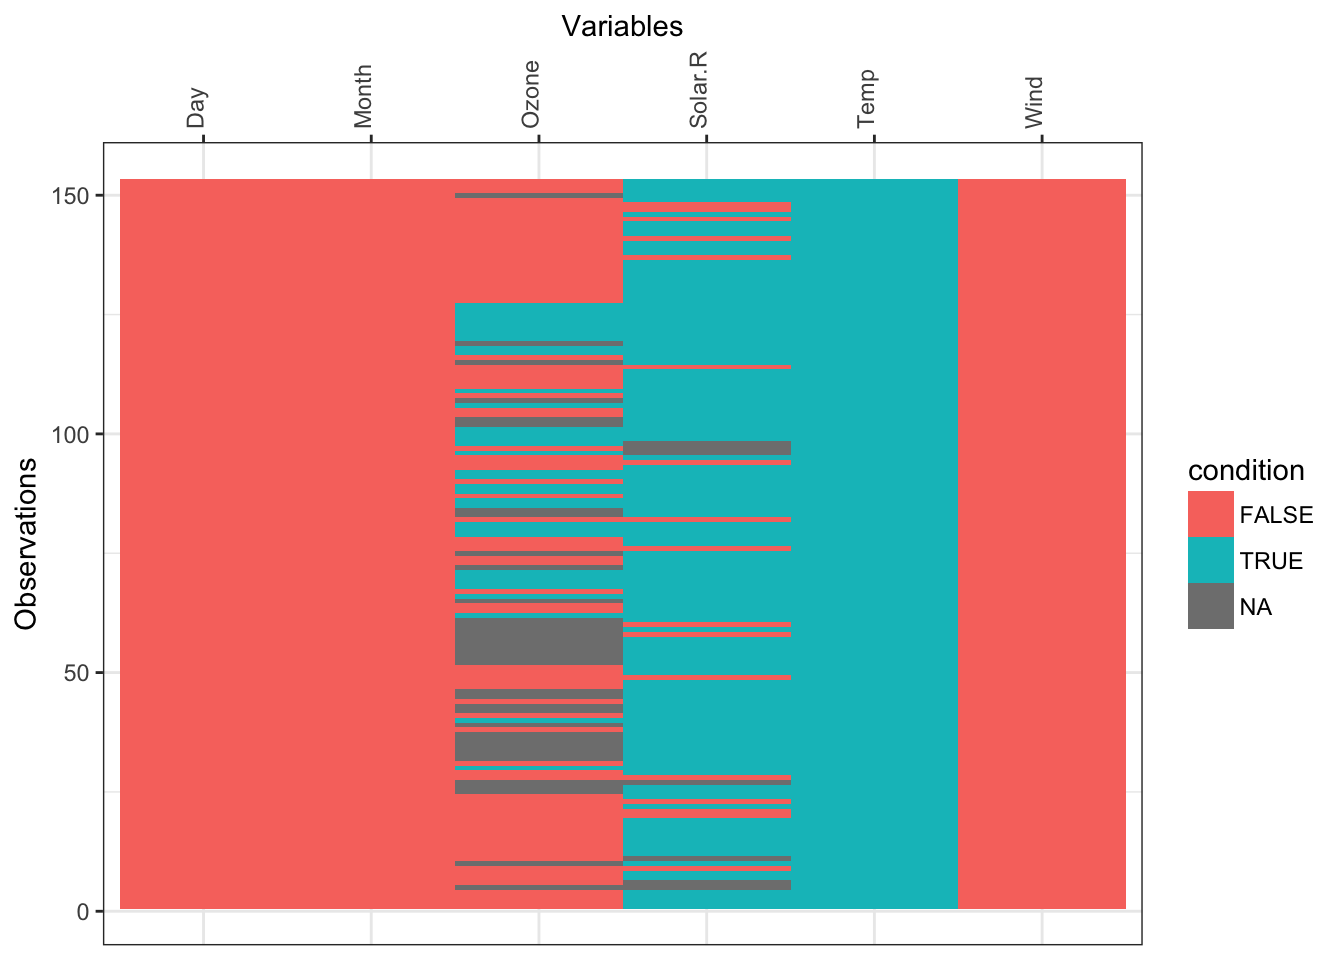
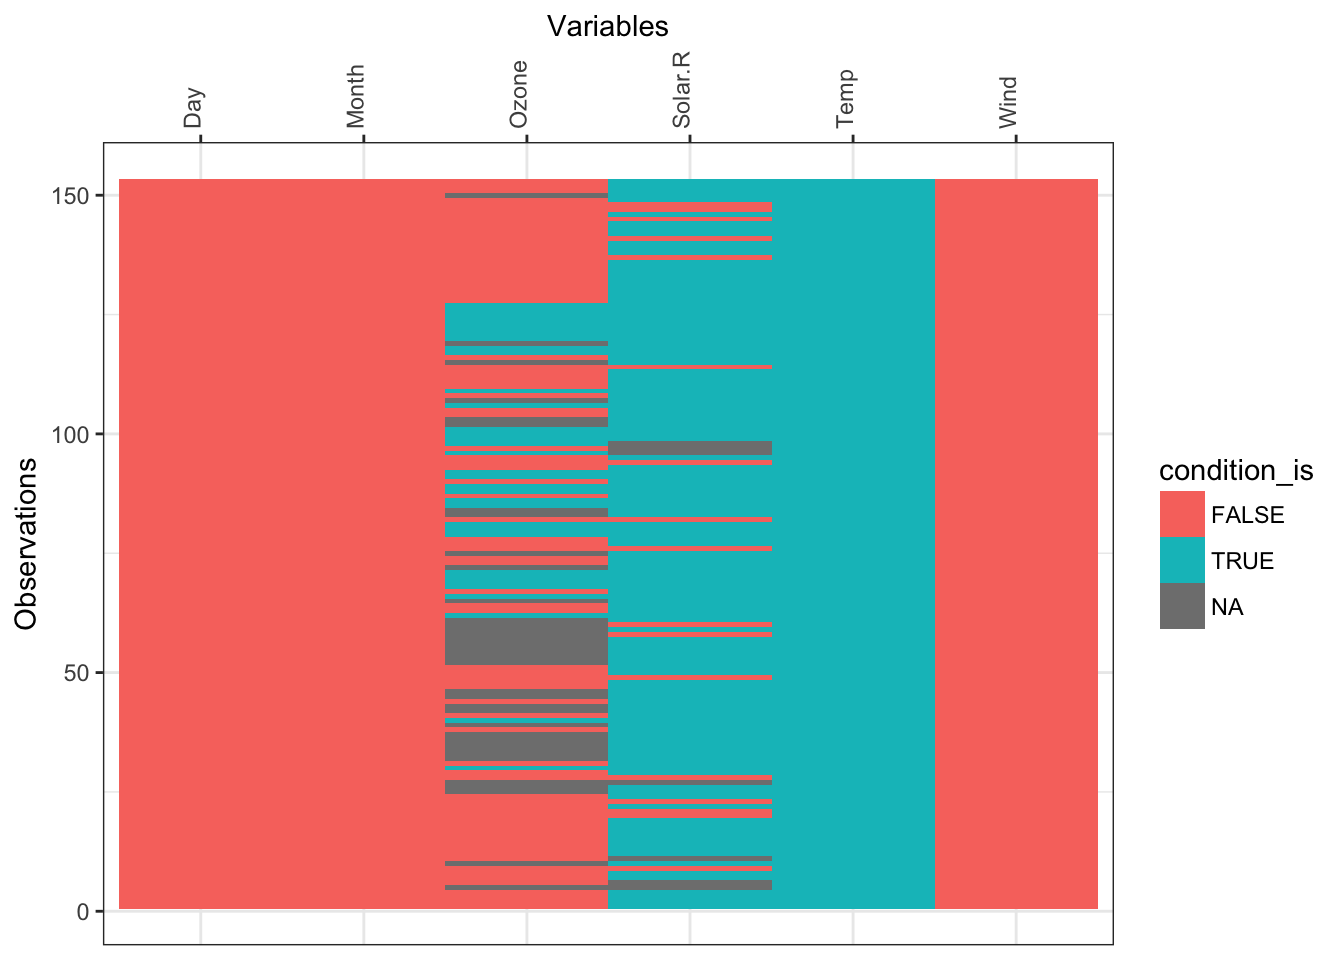
changed legend name of conditional_plot() function

diff --git a/content/post/2018-05-22-plot-missing-values.html b/content/post/2018-05-22-plot-missing-values.html
@@ -117,8 +117,8 @@ is.na(airquality) %&gt;%
   {x} %&gt;%
     data.frame() %&gt;% 
     mutate(obs = 1:nrow(.)) %&gt;% 
-    gather(var, condition, -obs) %&gt;%
-    ggplot(aes(x = var, y = obs, fill = condition)) + geom_tile() + 
+    gather(var, condition_is, -obs) %&gt;%
+    ggplot(aes(x = var, y = obs, fill = condition_is)) + geom_tile() + 
     theme_bw() +
     theme(axis.text.x = element_text(angle = 90, vjust = .5, hjust = 0)) + 
     labs(x = &quot;Variables&quot;, y = &quot;Observations&quot;) +

diff --git a/public/2018/05/22/plot-missing-values/index.html b/public/2018/05/22/plot-missing-values/index.html
@@ -173,8 +173,8 @@ is.na(airquality) %&gt;%
   {x} %&gt;%
     data.frame() %&gt;% 
     mutate(obs = 1:nrow(.)) %&gt;% 
-    gather(var, condition, -obs) %&gt;%
-    ggplot(aes(x = var, y = obs, fill = condition)) + geom_tile() + 
+    gather(var, condition_is, -obs) %&gt;%
+    ggplot(aes(x = var, y = obs, fill = condition_is)) + geom_tile() + 
     theme_bw() +
     theme(axis.text.x = element_text(angle = 90, vjust = .5, hjust = 0)) + 
     labs(x = &quot;Variables&quot;, y = &quot;Observations&quot;) +
